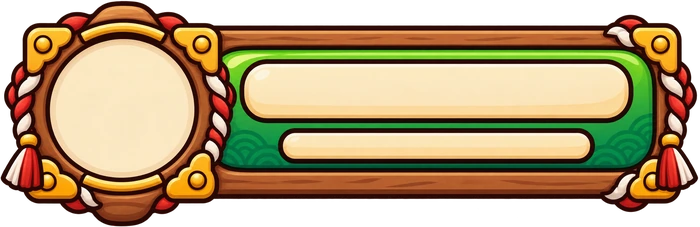
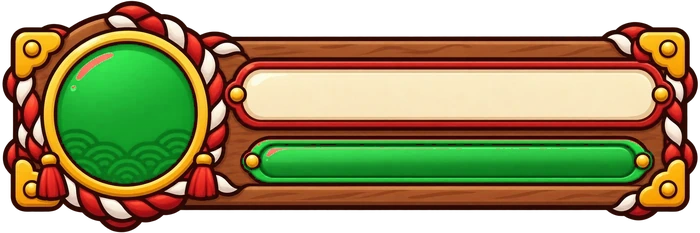
fix(hud): one player frame design in four colours
The four frame images were different designs, so the frames differed in
size and layout (green the most). The red frame is now used for every
player, its oval and level bar recoloured to blue, green and yellow; the
avatar fills the oval, the level text is larger with a dark outline, and on
phones the frames are bigger with the timer beside them.

diff --git a/apps/client/src/styles.css b/apps/client/src/styles.css
@@ -10835,3 +10835,73 @@ html .frames {
   max-width: none;
   object-fit: contain;
 }
+
+/* ======================================================================
+   Player frames: one design in four colours (the red frame, its oval and level bar
+   recoloured; 700×233), so every player's frame has the same shape and layout. Bigger on
+   phones, level text larger with a dark outline so it reads on every colour.
+   ====================================================================== */
+.frames,
+html .frames {
+  width: min(56vw, 280px);
+}
+
+.frame,
+.frame--red,
+.frame--blue,
+.frame--green,
+.frame--yellow {
+  aspect-ratio: 700 / 233;
+}
+
+.frame .frame__avatar,
+.frame--red .frame__avatar,
+.frame--blue .frame__avatar,
+.frame--green .frame__avatar,
+.frame--yellow .frame__avatar {
+  left: 7.5%;
+  top: 16%;
+  width: 21.5%;
+  height: 65%;
+}
+
+.frame .frame__name,
+.frame--red .frame__name,
+.frame--blue .frame__name,
+.frame--green .frame__name,
+.frame--yellow .frame__name {
+  left: 37%;
+  width: 54%;
+  top: 30%;
+  height: 19%;
+  font-size: 5cqw;
+}
+
+.frame .frame__level,
+.frame--red .frame__level,
+.frame--blue .frame__level,
+.frame--green .frame__level,
+.frame--yellow .frame__level {
+  left: 39%;
+  width: 49%;
+  top: 57%;
+  height: 20%;
+  color: #fff;
+  font-size: 4.4cqw;
+  font-weight: 900;
+  -webkit-text-stroke: 0.7cqw #3a1d05;
+  paint-order: stroke fill;
+  text-shadow: none;
+}
+
+.frame--yellow .frame__state {
+  bottom: 14%;
+}
+
+/* Narrow screens: the frames reach the middle, so the timer sits in the space between the
+   frames and the gear (centred there) instead of the exact centre */
+@media (max-width: 653px) {
+  .hud__timer {
+    left: calc((12px + min(56vw, 280px) + 100vw - 60px) / 2 - 50vw);
+  }
+}

diff --git a/CHANGELOG.md b/CHANGELOG.md
@@ -8,6 +8,7 @@ Releases use the root `package.json` version and are tagged `vX.Y.Z` automatical
 
 ### Added
 
+- **Link preview**: a shared link to the game shows the Mini Sumo banner ("Push. Dash. Win.", 1200 × 630) with a title and description (Open Graph and Twitter card tags; `public/social/mini-sumo-social-v1.jpg`). The other banner formats and the intro banner are in `docs/marketing/`, outside the builds.
 - Dev panel: a **Sounds** section plays each of the game's sounds, to try them.
 - **Sign in with Cafe Bazaar on the web** (the browser game, next to Google Play and email): OAuth2 on the game server (`account/BazaarLogin.ts`). A new Bazaar account is linked to the player; one that already saves another player signs this device in as them. The browser only ever sees a one-time ticket (5 minutes), never a key; states expire after 10 minutes and come back only to the game's own pages. Server keys `BAZAAR_LOGIN_CLIENT_ID` / `BAZAAR_LOGIN_SECRET` in `.env`; the catalog says `bazaarLogin` when it's on. 6 new tests (188 total).
 - Cafe Bazaar build:
@@ -26,7 +27,7 @@ Releases use the root `package.json` version and are tagged `vX.Y.Z` automatical
 ### Fixed
 
 - **76 images of the new art were stretched or squashed** (3–175 %): the art export resized each to the old file's size, whatever its shape. They are re-exported from the originals at their true shape (same width, the right height), and every size, ratio and 9-slice cut in the CSS follows: player frames, START, the notice plank, OUT, leaderboard rows, the name field and many buttons. The blank START, the silver and bronze medals and the loading-bar fill are made again from the corrected images; the fill, thicker than the frame's slot, is trimmed to it instead of squeezed. The old art kept on purpose (arena pictures, Private Room, results board) is unchanged.
-- Player frames in a bout: each colour's frame at its own shape, the avatar filling the oval socket, name and level inside their bars, text sized to the frame; OUT and Left inside the frame.
+- Player frames in a bout: one frame design in the four player colours (the red frame with its oval and level bar recoloured), so all four have the same size and layout; the avatar fills the oval, the level text is larger with a dark outline, and the frames are bigger on phones (the timer moves beside them there). OUT and Left sit inside the frame.
 - The red notice plank (notices and "You're out!") keeps its gold ends' shape: one line at a fixed height.
 - The final-stretch glow reaches the window's edges (it was inset with the HUD).
 - The hosted web build (`Web.zip` and GitHub Pages) was missing its backgrounds and frames: the art set through CSS variables resolved against the stylesheet folder (`assets/ui/…`, 404) with the relative base. Those URLs are now absolute.
